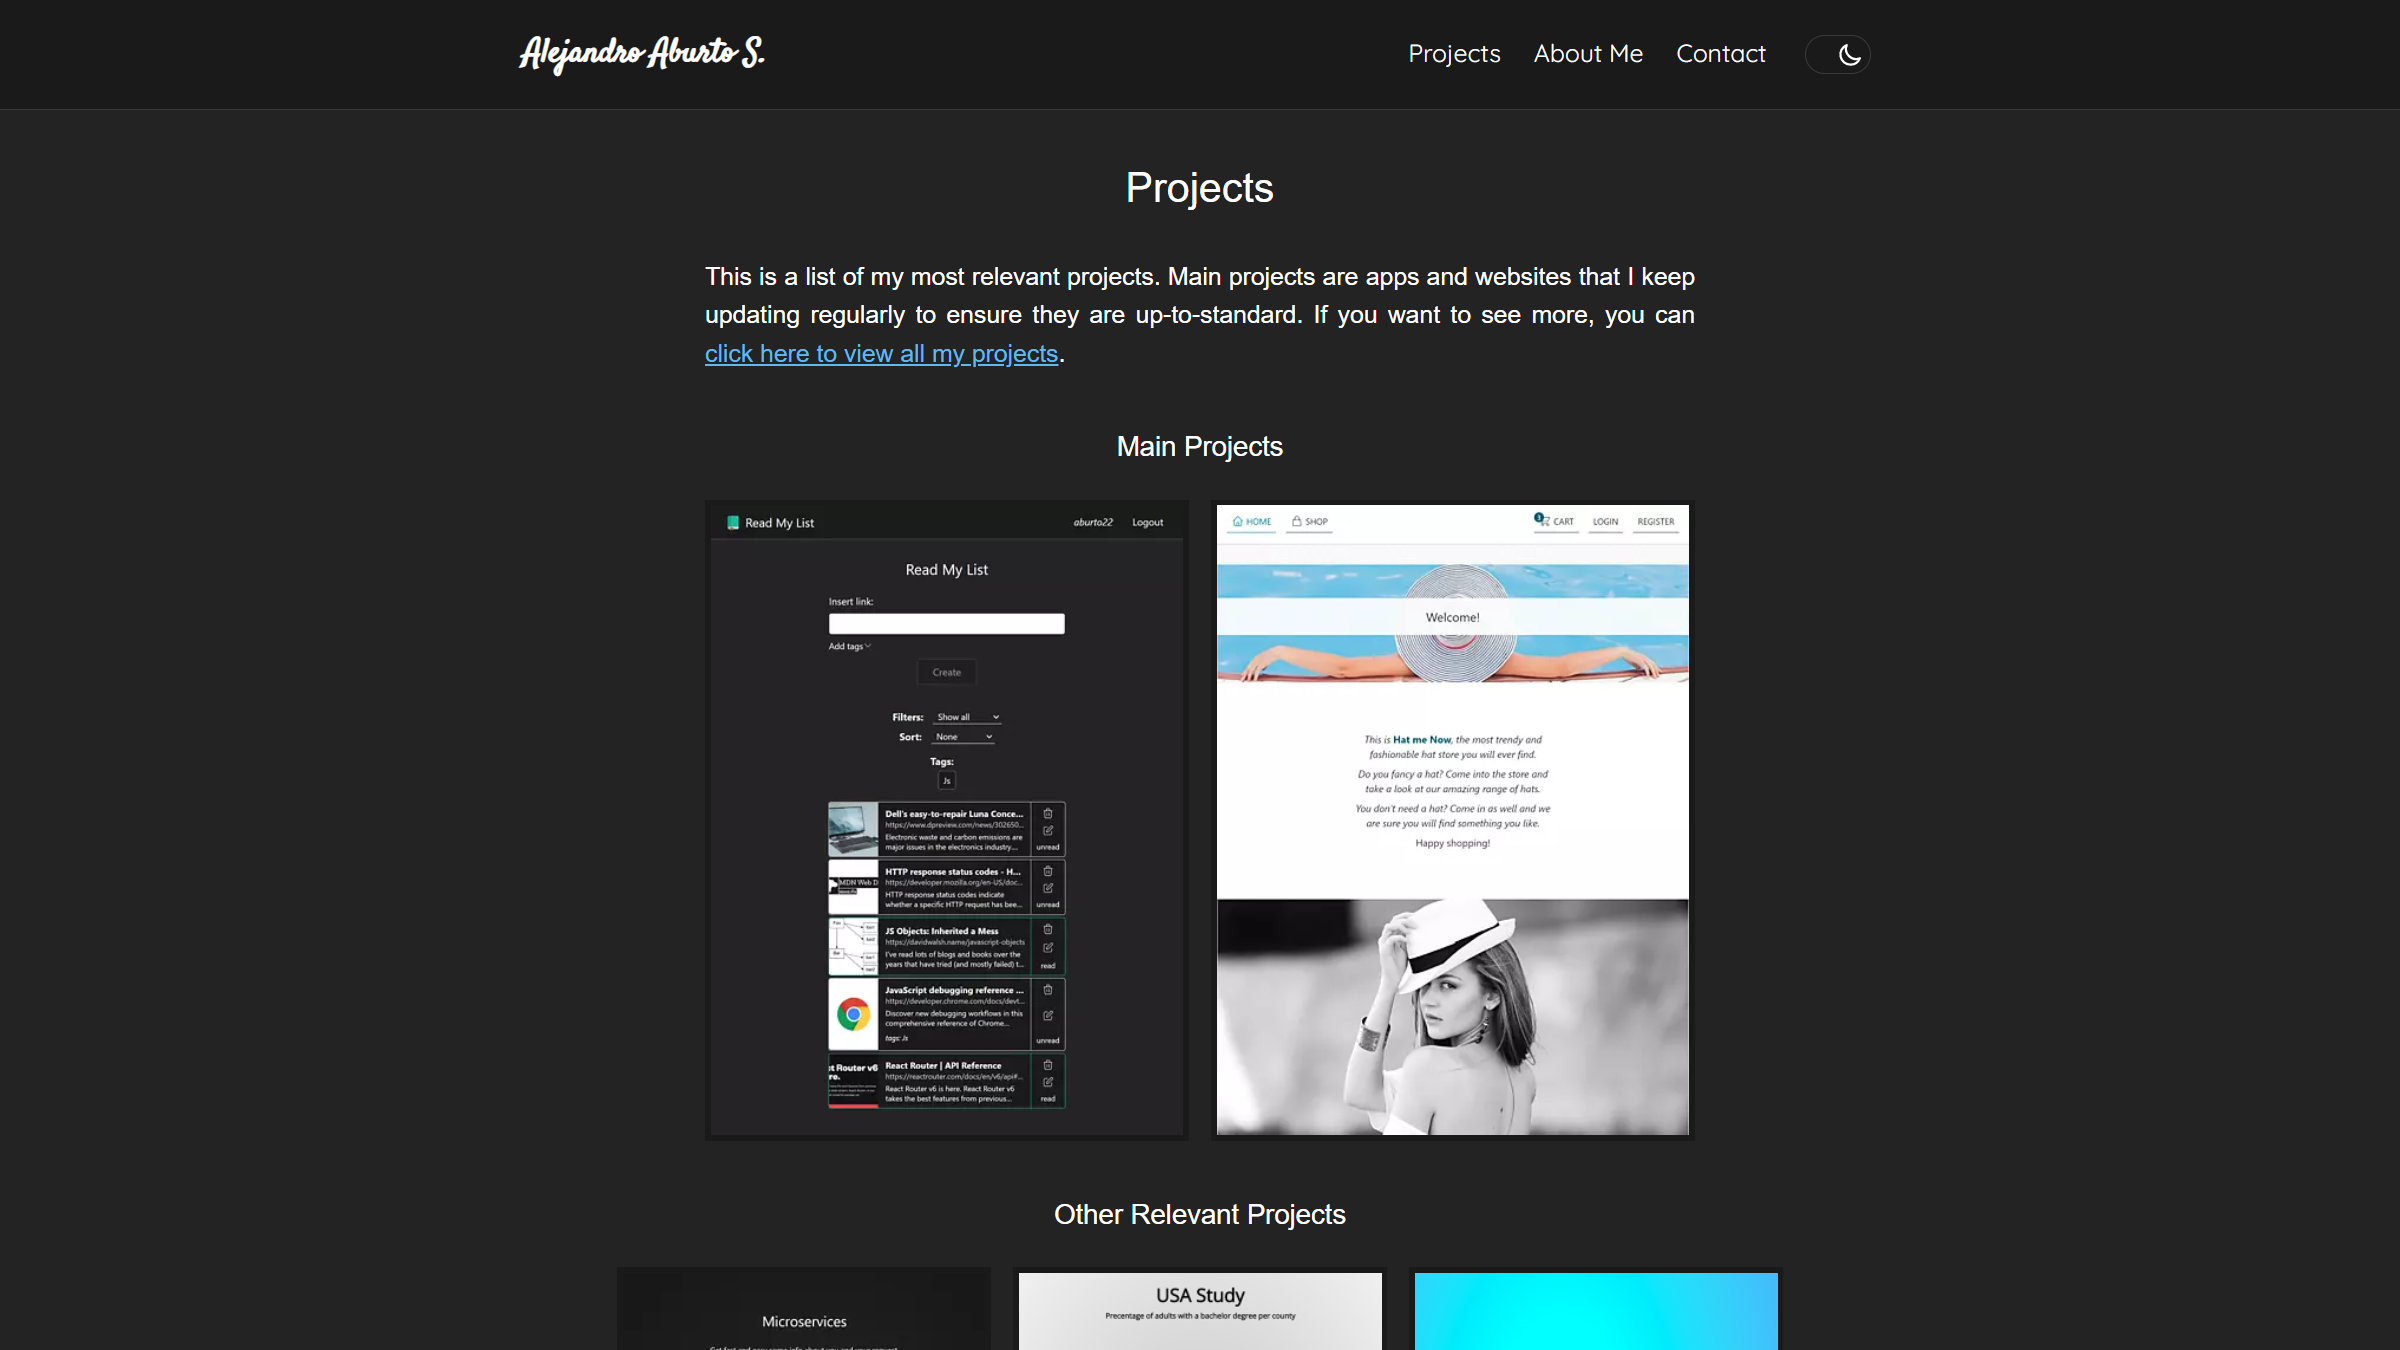
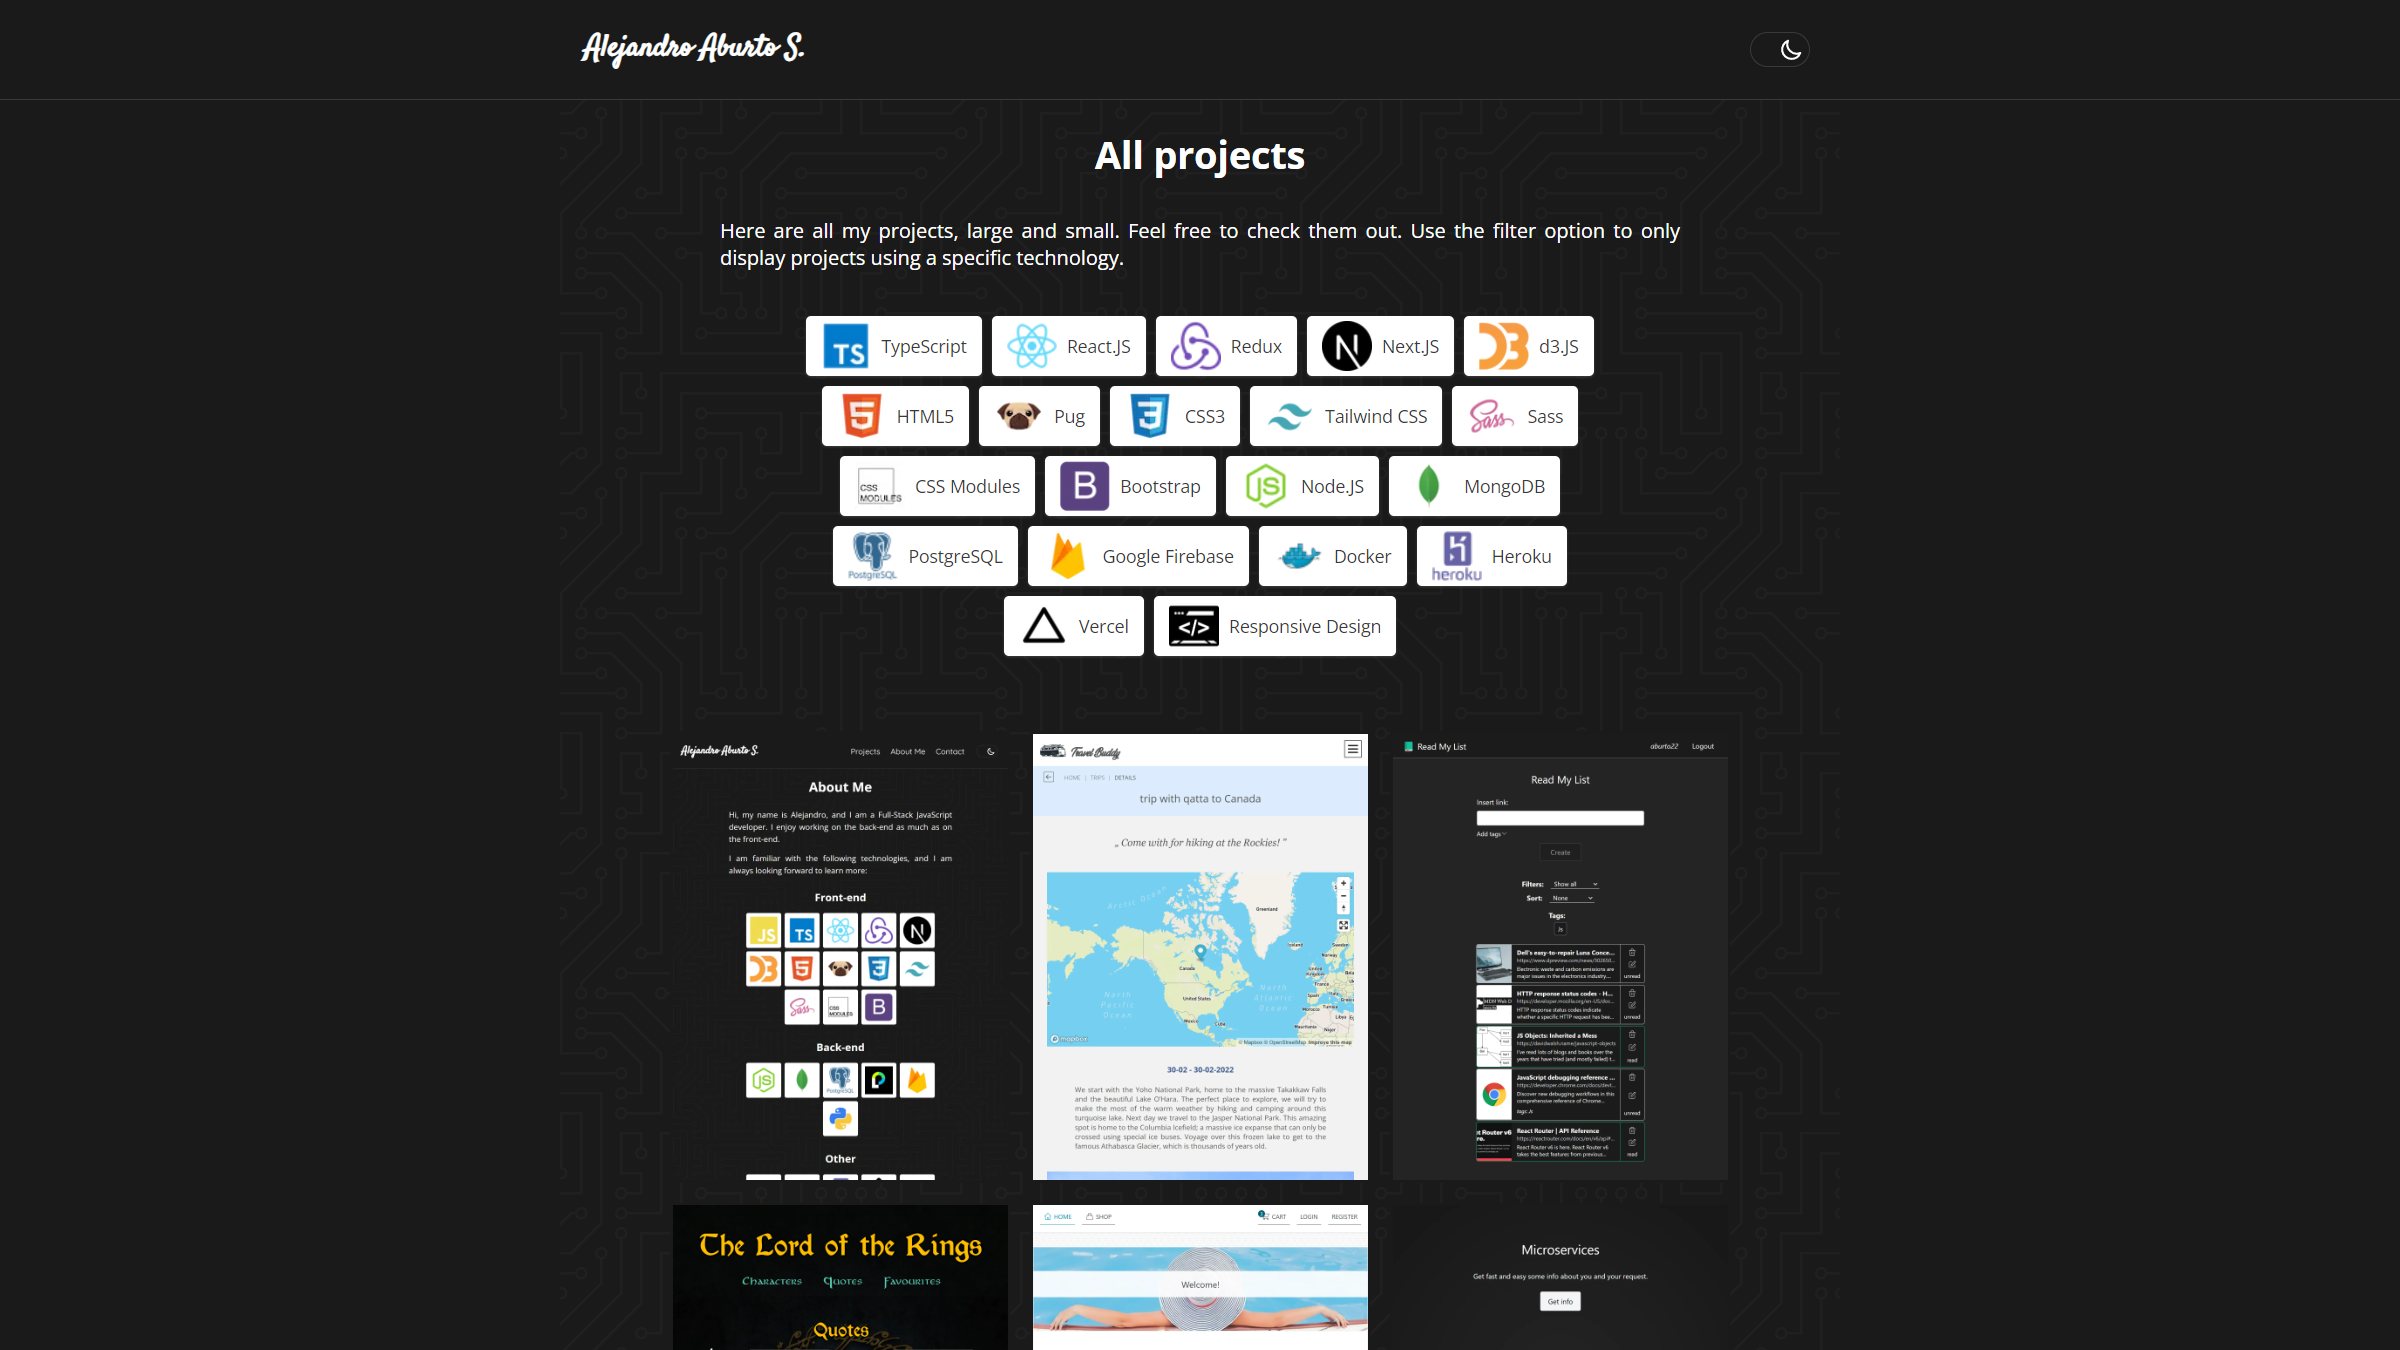
added updated screenshots

diff --git a/README.md b/README.md
@@ -1,34 +1,72 @@
-This is a [Next.js](https://nextjs.org/) project bootstrapped with [`create-next-app`](https://github.com/vercel/next.js/tree/canary/packages/create-next-app).
+# Portfolio
+> A place where I can show you what I am up to, and tell you a bit about myself.
+>
+> This website is hosted in vercel: [_Click here to take a look._](https://portfolio-aburto22.vercel.app/)
 
-## Getting Started
+## Table of Contents
+* [General Info](#general-information)
+* [Technologies Used](#technologies-used)
+* [Features](#features)
+* [Screenshots](#screenshots)
+* [Setup](#setup)
+* [Project Status](#project-status)
+* [New features](#new-features)
+* [Authors](#authors)
 
-First, run the development server:
 
-```bash
-npm run dev
-# or
-yarn dev
-```
+## General Information
+### Context
+Indispensable for every developer, I created this portfolio early and keep updating it to make it better and adding more and more projects.
 
-Open [http://localhost:3000](http://localhost:3000) with your browser to see the result.
+### Idea
+Goes without saying. A place where I can showcase my work, give contact details, and tell a little bit about myself.
 
-You can start editing the page by modifying `pages/index.tsx`. The page auto-updates as you edit the file.
+## Technologies Used
+### Front-end
+- TypeScript
+- Next.js
+- Redux
+- CSS Modules
+- EmailJS (to implement contact form)
 
-[API routes](https://nextjs.org/docs/api-routes/introduction) can be accessed on [http://localhost:3000/api/hello](http://localhost:3000/api/hello). This endpoint can be edited in `pages/api/hello.ts`.
+### Deployment and hosting
+- Vercel hosting
 
-The `pages/api` directory is mapped to `/api/*`. Files in this directory are treated as [API routes](https://nextjs.org/docs/api-routes/introduction) instead of React pages.
 
-## Learn More
+## Features
+My portfolio consists of a main page showing my main projects, technologies I work with and contact details. There are also more detailed pages:
+- About me page with the story about how I became a Full-Stack JavaScript developer.
+- Projects page showing all projects and apps I created.
+- Email sending to personal account when users use contact form.
 
-To learn more about Next.js, take a look at the following resources:
 
-- [Next.js Documentation](https://nextjs.org/docs) - learn about Next.js features and API.
-- [Learn Next.js](https://nextjs.org/learn) - an interactive Next.js tutorial.
+## Screenshots
+<img src="./screenshots/mobile.png" width="100">
+<img src="./screenshots/tablet.png" width="200">
+<img src="./screenshots/laptop.png" width="600">
 
-You can check out [the Next.js GitHub repository](https://github.com/vercel/next.js/) - your feedback and contributions are welcome!
 
-## Deploy on Vercel
+## Setup
+Classic create-react-app project. Go into client folder and install dependencies using `npm install`, and then run the development server using `npm start`.
 
-The easiest way to deploy your Next.js app is to use the [Vercel Platform](https://vercel.com/new?utm_medium=default-template&filter=next.js&utm_source=create-next-app&utm_campaign=create-next-app-readme) from the creators of Next.js.
+In order to run a local copy, users need to include an .env file in the server folder with the following information:
+- REACT_APP_EMAILJS_SERVICE_ID - Service ID for EmailJS
+- REACT_APP_EMAILJS_TEMPLATE_ID - Template ID for email for EmailJS 
+- REACT_APP_EMAILJS_USER_ID - User ID form EmailJS
 
-Check out our [Next.js deployment documentation](https://nextjs.org/docs/deployment) for more details.
+
+## Project Status
+A portfolio is always ongoing. There are always things to improve and new projects to add.
+
+
+## New features and bugs
+Known bugs:
+- In very rare cases, a project tile won't return to its normal status (showing project screenshot) after stop hovering.
+
+Future features:
+- Convert to JAM stack using Contentful.
+
+
+## Authors
+My portfolio created by myself:
+- Alejandro Aburto Salazar - [GitHub](https://github.com/aburto22)
